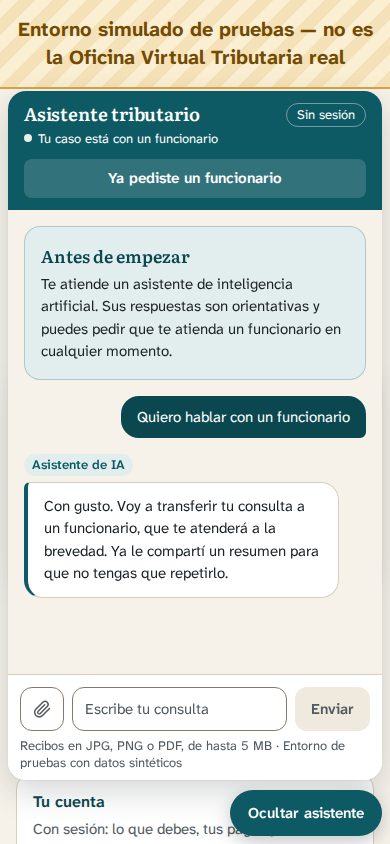
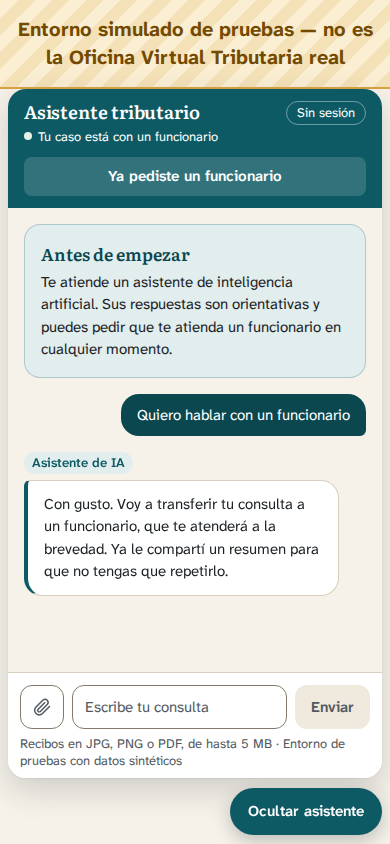
fix(web): corregir los hallazgos de la revisión de las capturas
Resumen con el reloj de los escenarios y el gasto de las consultas,
métricas de ejemplo con estados reales y sin duraciones inventadas
(con prueba del JSON), widget que cubre la página en el celular,
rótulo revisado al cambiar el tamaño y OVT con el asistente cerrado.

Refs: RF-OBS-02 · Matriz de confusión de enrutamiento
Refs: RF-UI-01 · Widget embebible

diff --git a/web/tests/web.spec.js b/web/tests/web.spec.js
@@ -37,6 +37,16 @@ async function capturar(page, nombre, { completa = false } = {}) {
   if (!CAPTURAS) return;
   await fuentesListas(page);
   await page.waitForTimeout(100); // el widget recalcula su altura con el rótulo ya dibujado
+  // Con las fuentes cargadas cambia el alto del texto: la conversación vuelve al final (si hay
+  // mensajes), como la deja el widget.
+  for (const marco of page.frames()) {
+    await marco
+      .evaluate(() => {
+        const zona = document.querySelector("main[aria-live]");
+        if (zona?.querySelector("[data-autor]")) zona.scrollTop = zona.scrollHeight;
+      })
+      .catch(() => {});
+  }
   const { width } = page.viewportSize();
   const path = `../docs/capturas/${nombre}_${width}.png`;
   await page.screenshot({ path, animations: "disabled", fullPage: completa });
@@ -90,6 +100,10 @@ async function flujoOvt(page, tamano) {
   await expect(page.locator("img, svg")).toHaveCount(0); // sin logos
   expect(await page.locator("body").innerText()).not.toMatch(MARCAS_PROHIBIDAS);
   await expect(page.locator("iframe[data-realtix-widget]")).toHaveAttribute("src", /\/widget\/$/);
+  // La captura de la OVT muestra la página con el asistente cerrado (en el celular ya lo está).
+  if (tamano.width >= 640) await page.getByRole("button", { name: "Ocultar asistente" }).click();
+  await page.evaluate(() => document.activeElement?.blur()); // sin el anillo de foco del clic
+  await expect(page.getByRole("button", { name: "Asistente tributario" })).toBeVisible();
   await capturar(page, "ovt_simulada");
 }
 
@@ -133,6 +147,7 @@ async function flujoFueraDeHorario(page, tamano) {
   await expect(aviso).toContainText("Vuelvo a atender el lunes 5 de octubre de 2026 a las 8:00 a. m.");
   await expect(aviso.getByText("Vuelve a atender el lunes 5 de octubre de 2026 a las 8:00 a. m.")).toBeVisible();
   await expect(aviso.getByText("Sistema", { exact: true })).toBeVisible();
+  await rotuloVisible(page);
   await capturar(page, "widget_fuera_de_horario");
 }
 
@@ -149,6 +164,12 @@ async function flujoRecibo(page, tamano) {
   const subida = solicitudes.find((s) => s.ruta === "/api/v1/chat/documento");
   expect(subida.auth).toBe("Bearer token-de-prueba-U03");
   await rotuloVisible(page);
+  // Al cambiar el tamaño de la ventana, el widget tampoco tapa el rótulo.
+  const otro = tamano.width < 640 ? ESCRITORIO : CELULAR;
+  await page.setViewportSize(otro);
+  await rotuloVisible(page);
+  await page.setViewportSize(tamano);
+  await rotuloVisible(page);
   await capturar(page, "widget_recibo");
 }
 
@@ -159,6 +180,7 @@ async function flujoEscalada(page, tamano) {
   await expect(widget.getByText(TEXTOS.transferencia)).toBeVisible();
   await expect(widget.getByTestId("interlocutor")).toHaveText("Tu caso está con un funcionario");
   await expect(widget.getByRole("button", { name: "Ya pediste un funcionario" })).toBeDisabled();
+  await rotuloVisible(page);
   await capturar(page, "widget_escalado"); // antes del mensaje de prueba del funcionario
   // La consulta periódica trae el mensaje del funcionario (RF-ESC-05 y RF-UI-03).
   await expect(widget.getByText(TEXTOS.funcionario)).toBeVisible({ timeout: 8000 });

diff --git a/web/public/widget/embed.js b/web/public/widget/embed.js
@@ -74,8 +74,16 @@
       (abierto
         ? "visibility:visible;opacity:1;transform:none;"
         : "visibility:hidden;opacity:0;transform:translateY(8px);");
-    contenedor.style.right = borde + "px";
-    contenedor.style.bottom = borde + "px";
+    // En el celular, con el panel abierto, el contenedor cubre lo que queda bajo el rótulo con el
+    // color del papel, de borde a borde: no asoma la página detrás ni el botón tapa su texto.
+    var hojaCompleta = !ancho.matches && abierto;
+    contenedor.style.right = hojaCompleta ? "0" : borde + "px";
+    contenedor.style.bottom = hojaCompleta ? "0" : borde + "px";
+    contenedor.style.left = hojaCompleta ? "0" : "auto";
+    contenedor.style.top = hojaCompleta ? margenSuperior() + "px" : "auto";
+    contenedor.style.padding = hojaCompleta ? "0 8px 8px 8px" : "0";
+    contenedor.style.background = hojaCompleta ? "#f6f2ea" : "transparent";
+    contenedor.style.pointerEvents = hojaCompleta ? "auto" : "none";
     boton.textContent = abierto ? "Ocultar asistente" : "Asistente tributario";
     boton.setAttribute("aria-expanded", String(abierto));
   }

diff --git a/scripts/metricas_de_ejemplo.py b/scripts/metricas_de_ejemplo.py
@@ -3,7 +3,9 @@
 Arma un registro de interacciones a partir de una matriz de confusión de ejemplo y lo pasa por
 `calcular_metricas`, el mismo cálculo de `/admin/metricas`: la exactitud, el total etiquetado, la
 precisión, la exhaustividad y el F1 salen de los mismos pares, como en el sistema real. Las
-duraciones son las de la medición de B9 (`reports/b09_latencia.json`), repetidas en orden.
+duraciones de los turnos con modelo son las de la medición de B9 (`reports/b09_latencia.json`),
+repetidas en orden; los turnos fuera de horario no llevan duración inventada y no entran en las
+latencias. Los turnos escalados tienen el estado `escalada`, como en el sistema real.
 
 Escribe `web/tests/metricas_de_ejemplo.json`.
 Uso: uv run python scripts/metricas_de_ejemplo.py
@@ -56,7 +58,7 @@ def interacciones_de_ejemplo() -> tuple[list[dict], dict[str, str | None]]:
                     "escenario_id": escenario,
                     "categoria": predicha,
                     "duracion_ms": next(duraciones),
-                    "estado": "respondida",
+                    "estado": "escalada" if n <= ESCALADAS else "respondida",
                     "escalada": n <= ESCALADAS,
                 }  # fmt: skip
             )
@@ -66,7 +68,7 @@ def interacciones_de_ejemplo() -> tuple[list[dict], dict[str, str | None]]:
                 "id_conversacion": f"conv-sin-{i}",
                 "escenario_id": None,
                 "categoria": None,
-                "duracion_ms": next(duraciones),
+                "duracion_ms": None,
                 "estado": "fuera_de_horario",
                 "escalada": False,
             }  # fmt: skip

diff --git a/tests/test_metricas.py b/tests/test_metricas.py
@@ -89,3 +89,18 @@ def test_tokens_y_modelo_por_nodo() -> None:
     assert uso.totales() == {"entrada": 120, "salida": 30}
     assert uso.modelo_por_nodo() == {"nodo_ipu": "claude-haiku-5-5"}
     assert uso.costo_usd() == Decimal("0.000027")
+
+
+@pytest.mark.unit
+@pytest.mark.req("RF-OBS-02 · Matriz de confusión de enrutamiento")
+def test_las_metricas_de_ejemplo_de_la_web_salen_de_calcular_metricas() -> None:
+    """El JSON de las capturas de la consola (B11) coincide con el cálculo real: si el cálculo
+    cambia, hay que regenerarlo con scripts/metricas_de_ejemplo.py."""
+    import json
+
+    from scripts.metricas_de_ejemplo import SALIDA, interacciones_de_ejemplo
+
+    interacciones, etiquetas = interacciones_de_ejemplo()
+    esperado = json.loads(json.dumps(calcular_metricas(interacciones, etiquetas, CATEGORIAS)))
+    assert json.loads(SALIDA.read_text(encoding="utf-8")) == esperado
+    assert esperado["exactitud"] == round(41 / 44, 3) and esperado["turnos_etiquetados"] == 44

diff --git a/docs/resumenes/b11.md b/docs/resumenes/b11.md
@@ -80,8 +80,9 @@ Capturas (`docs/capturas/`, cada una en `_1280` y `_390`):
 | Concepto | Costo |
 |---|---|
 | Comprobación de punta a punta con la API real (una consulta) | unos US$0,01 |
+| Dos consultas reales para las capturas (predial y GEN-02; no se copiaron, quedaron como fallas conocidas) | unos US$0,02 |
 
-Gasto acumulado del proyecto: unos US$1,19 de US$25 en Anthropic y unos US$0,08 de US$10 en OpenAI.
+Gasto acumulado del proyecto: unos US$1,21 de US$25 en Anthropic y unos US$0,08 de US$10 en OpenAI.
 
 ## Decisiones tomadas y pendientes
 
@@ -90,7 +91,8 @@ Gasto acumulado del proyecto: unos US$1,19 de US$25 en Anthropic y unos US$0,08 
 - **La cabecera CSP del widget, que es HTML,** la pone el proxy en B13; la API ya limita `frame-ancestors` en sus respuestas.
 - **Corrección de paso:** el aviso fuera de horario decía «8:00 a. m..», con doble punto, desde B5; ahora una prueba lo evita.
 - **Se agregó `GET /api/v1/ovt-simulada/usuarios`** en B9 para esta página.
-- **Fechas en las capturas:** los relojes simulados de la web son de 2030, con el día de la semana correcto (el aviso sale de `Horario`), para que no se lean como fechas del trabajo (regla 9). Las fechas tributarias del recibo sí van.
+- **Fechas en las capturas:** a pedido de Rodolfo, la web usa el reloj de los escenarios aprobados en B6: el aviso fuera de horario es el del sábado 3 de octubre de 2026 a las 10:00 (generado con `Horario`), y los casos de la bandeja son del jueves 1 de octubre de 2026. Son fechas sintéticas de los escenarios, no fechas del trabajo. Las fechas tributarias del recibo también van.
+- **Para B16:** el resumen de `construir_resumen` escribe «Nivel de confianza: 0.58», con punto decimal, mientras la consola muestra «0,58». Así lo produce el sistema; si la captura de la bandeja va al documento, conviene unificarlo.
 - **Revisión independiente:** no hubo hallazgos críticos. Se corrigieron los importantes y los menores:
   - una respuesta que llegaba tarde se colaba en la sesión siguiente (fuga entre sesiones): ahora se descarta;
   - errores técnicos como «Failed to fetch»: ahora se convierten en el mensaje de sin conexión (`ErrorApi`);

diff --git a/docs/capturas/README.md b/docs/capturas/README.md
@@ -10,6 +10,8 @@ Capturas de la OVT simulada, el widget y la consola, cada una en 1280 px (`_1280
   - los avisos de transferencia (`AVISO_TRANSFERENCIA` y `PREFACIOS` de `nodo_escalamiento`);
   - el resumen del caso (`construir_resumen`);
   - la confirmación del recibo de OCR-01.
+- **Los casos de la bandeja** (la pregunta, el nivel de confianza y los identificadores) son de
+  ejemplo; solo sus textos fijos salen del sistema.
 - **Las fechas** son las del reloj de los escenarios aprobados en B6: los casos de la bandeja son del
   jueves 1 de octubre de 2026.
 - **Las cifras de la consola son de ejemplo y no son resultados.** Salen de
